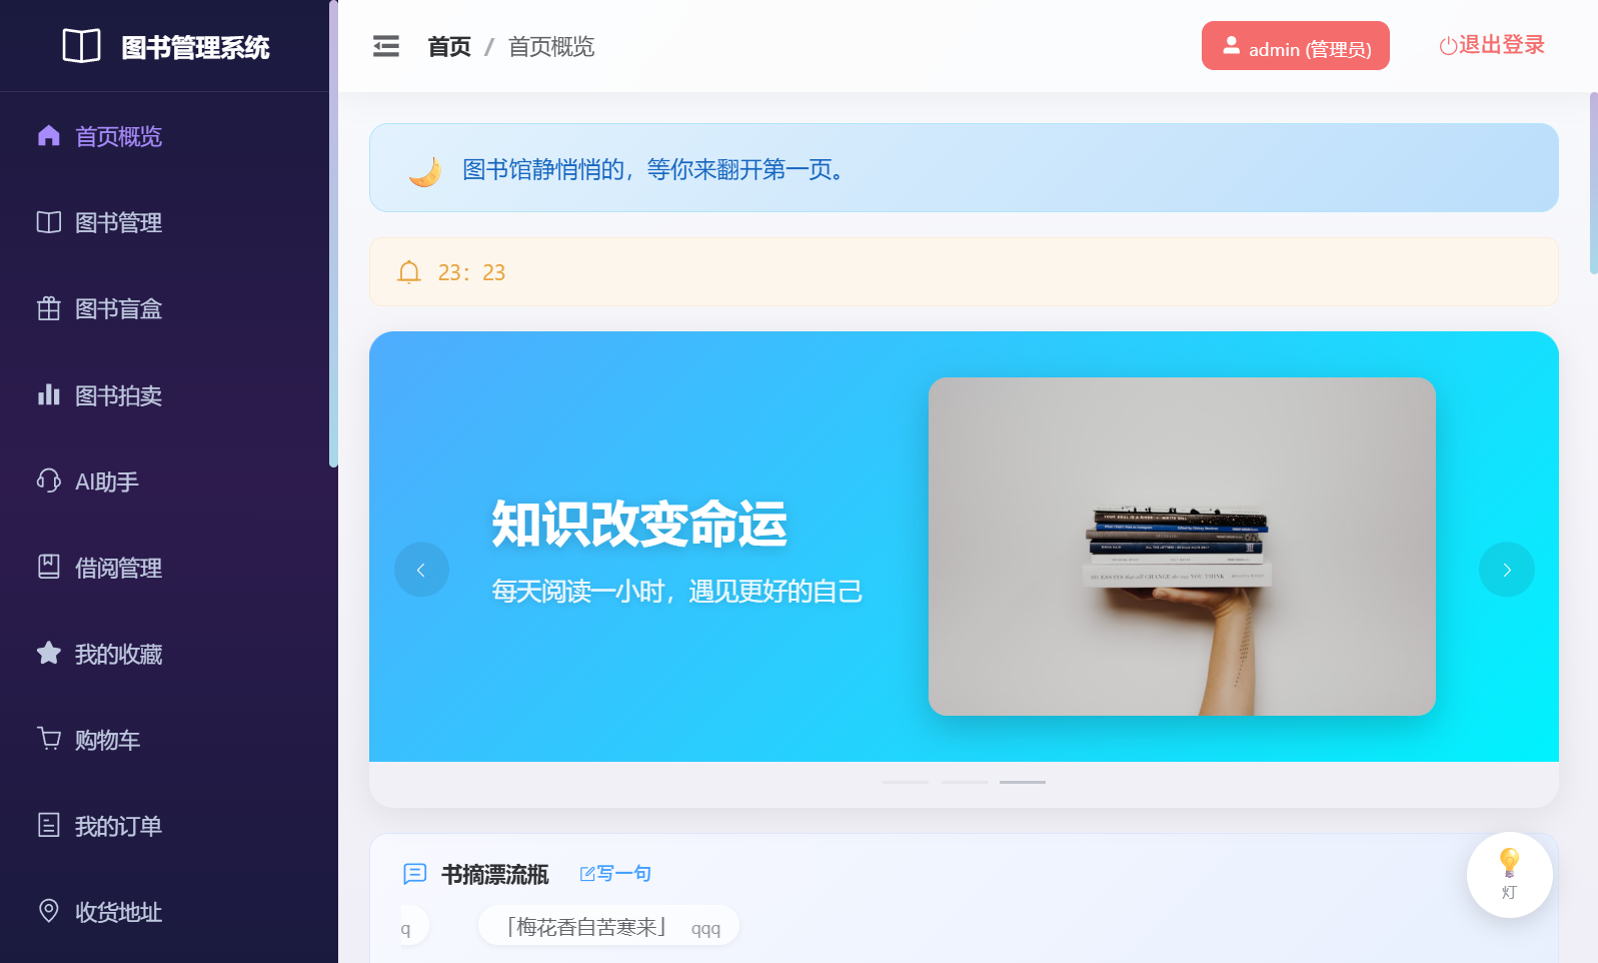
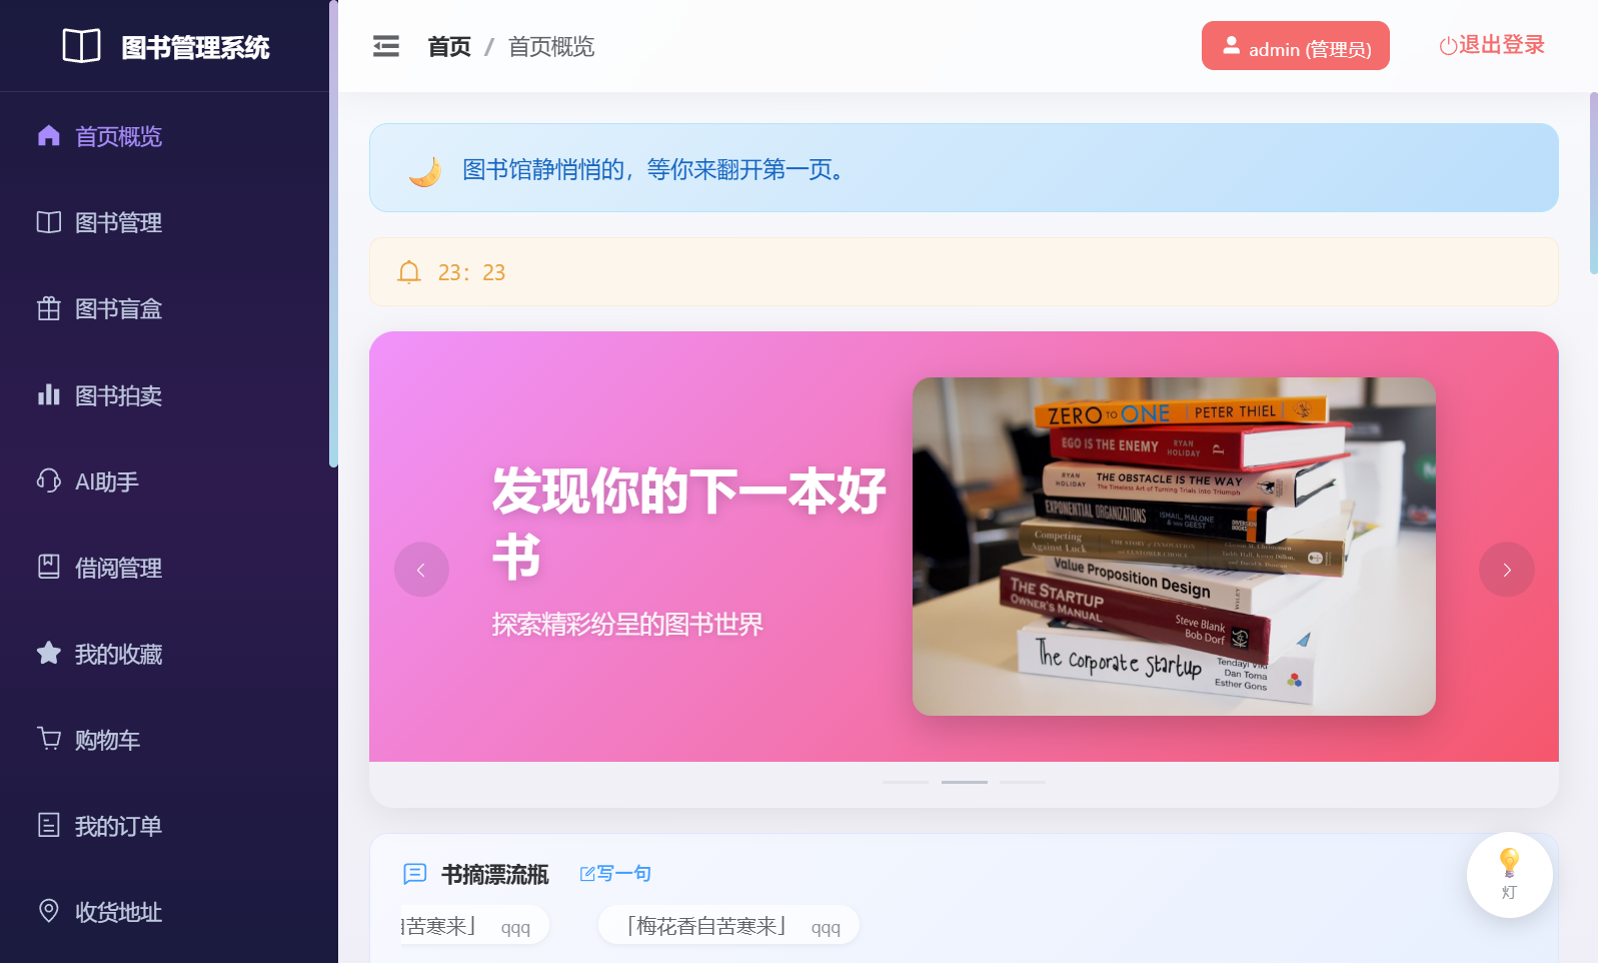
docs: regroup dashboard screenshots into single section

diff --git a/README.md b/README.md
@@ -116,17 +116,11 @@ npm run dev
 ### 登录页
 ![登录页](docs/screenshots/login.png)
 
-### 首页概览（上部）
-管理员登录后的首页顶部，包含轮播图、今日命运之书、心情配色荐书等模块。
-![首页上部](docs/screenshots/dashboard-1.png)
-
-### 首页概览（中部）
-首页中部，包含天气联动荐书、书摘漂流瓶、热门图书列表（含借阅、购买、收藏按钮）。
-![首页中部](docs/screenshots/dashboard-2.png)
-
-### 首页概览（下部）
-首页底部，包含本月借阅排行榜、按分类筛选、默认排序等区域。
-![首页下部](docs/screenshots/dashboard-3.png)
+### 首页
+管理员登录后的首页，包含轮播图、命运之书、书摘漂流瓶、热门图书、图书详情等模块。
+![首页](docs/screenshots/dashboard-1.png)
+![首页](docs/screenshots/dashboard-2.png)
+![首页](docs/screenshots/dashboard-3.png)
 
 ### 图书管理
 图书列表，支持搜索、新增、编辑、删除、借阅、收藏等操作。
